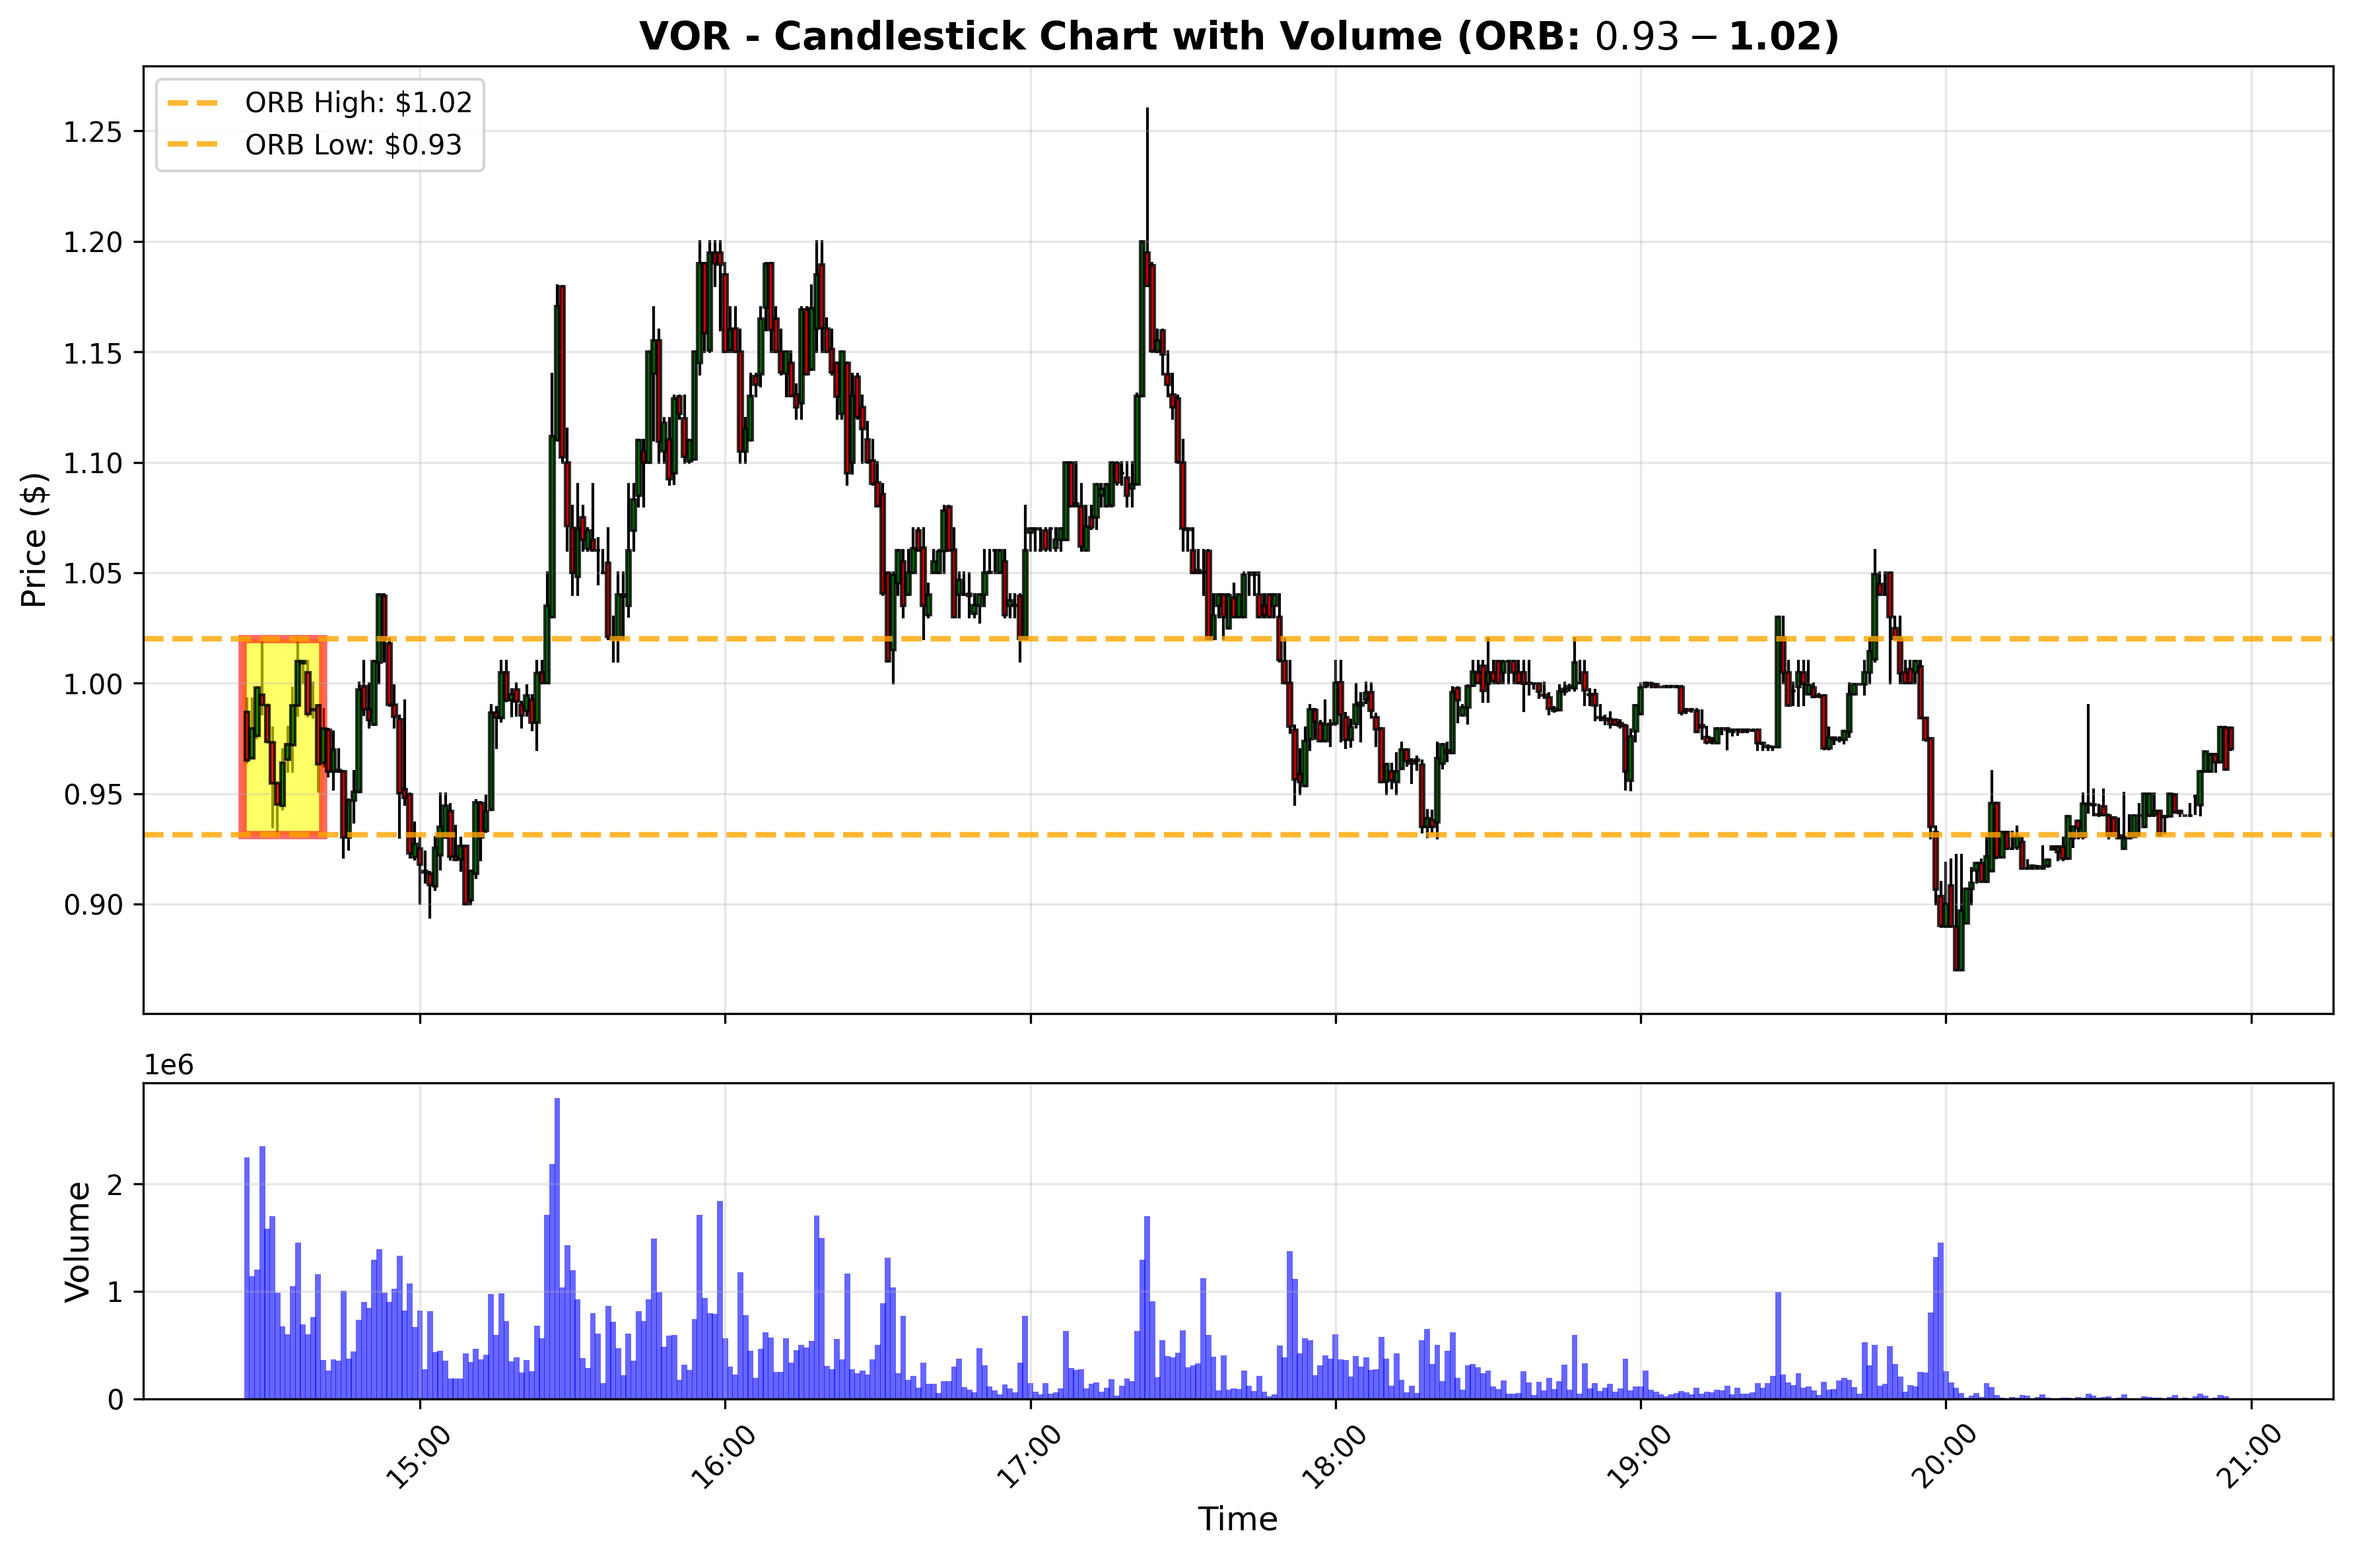
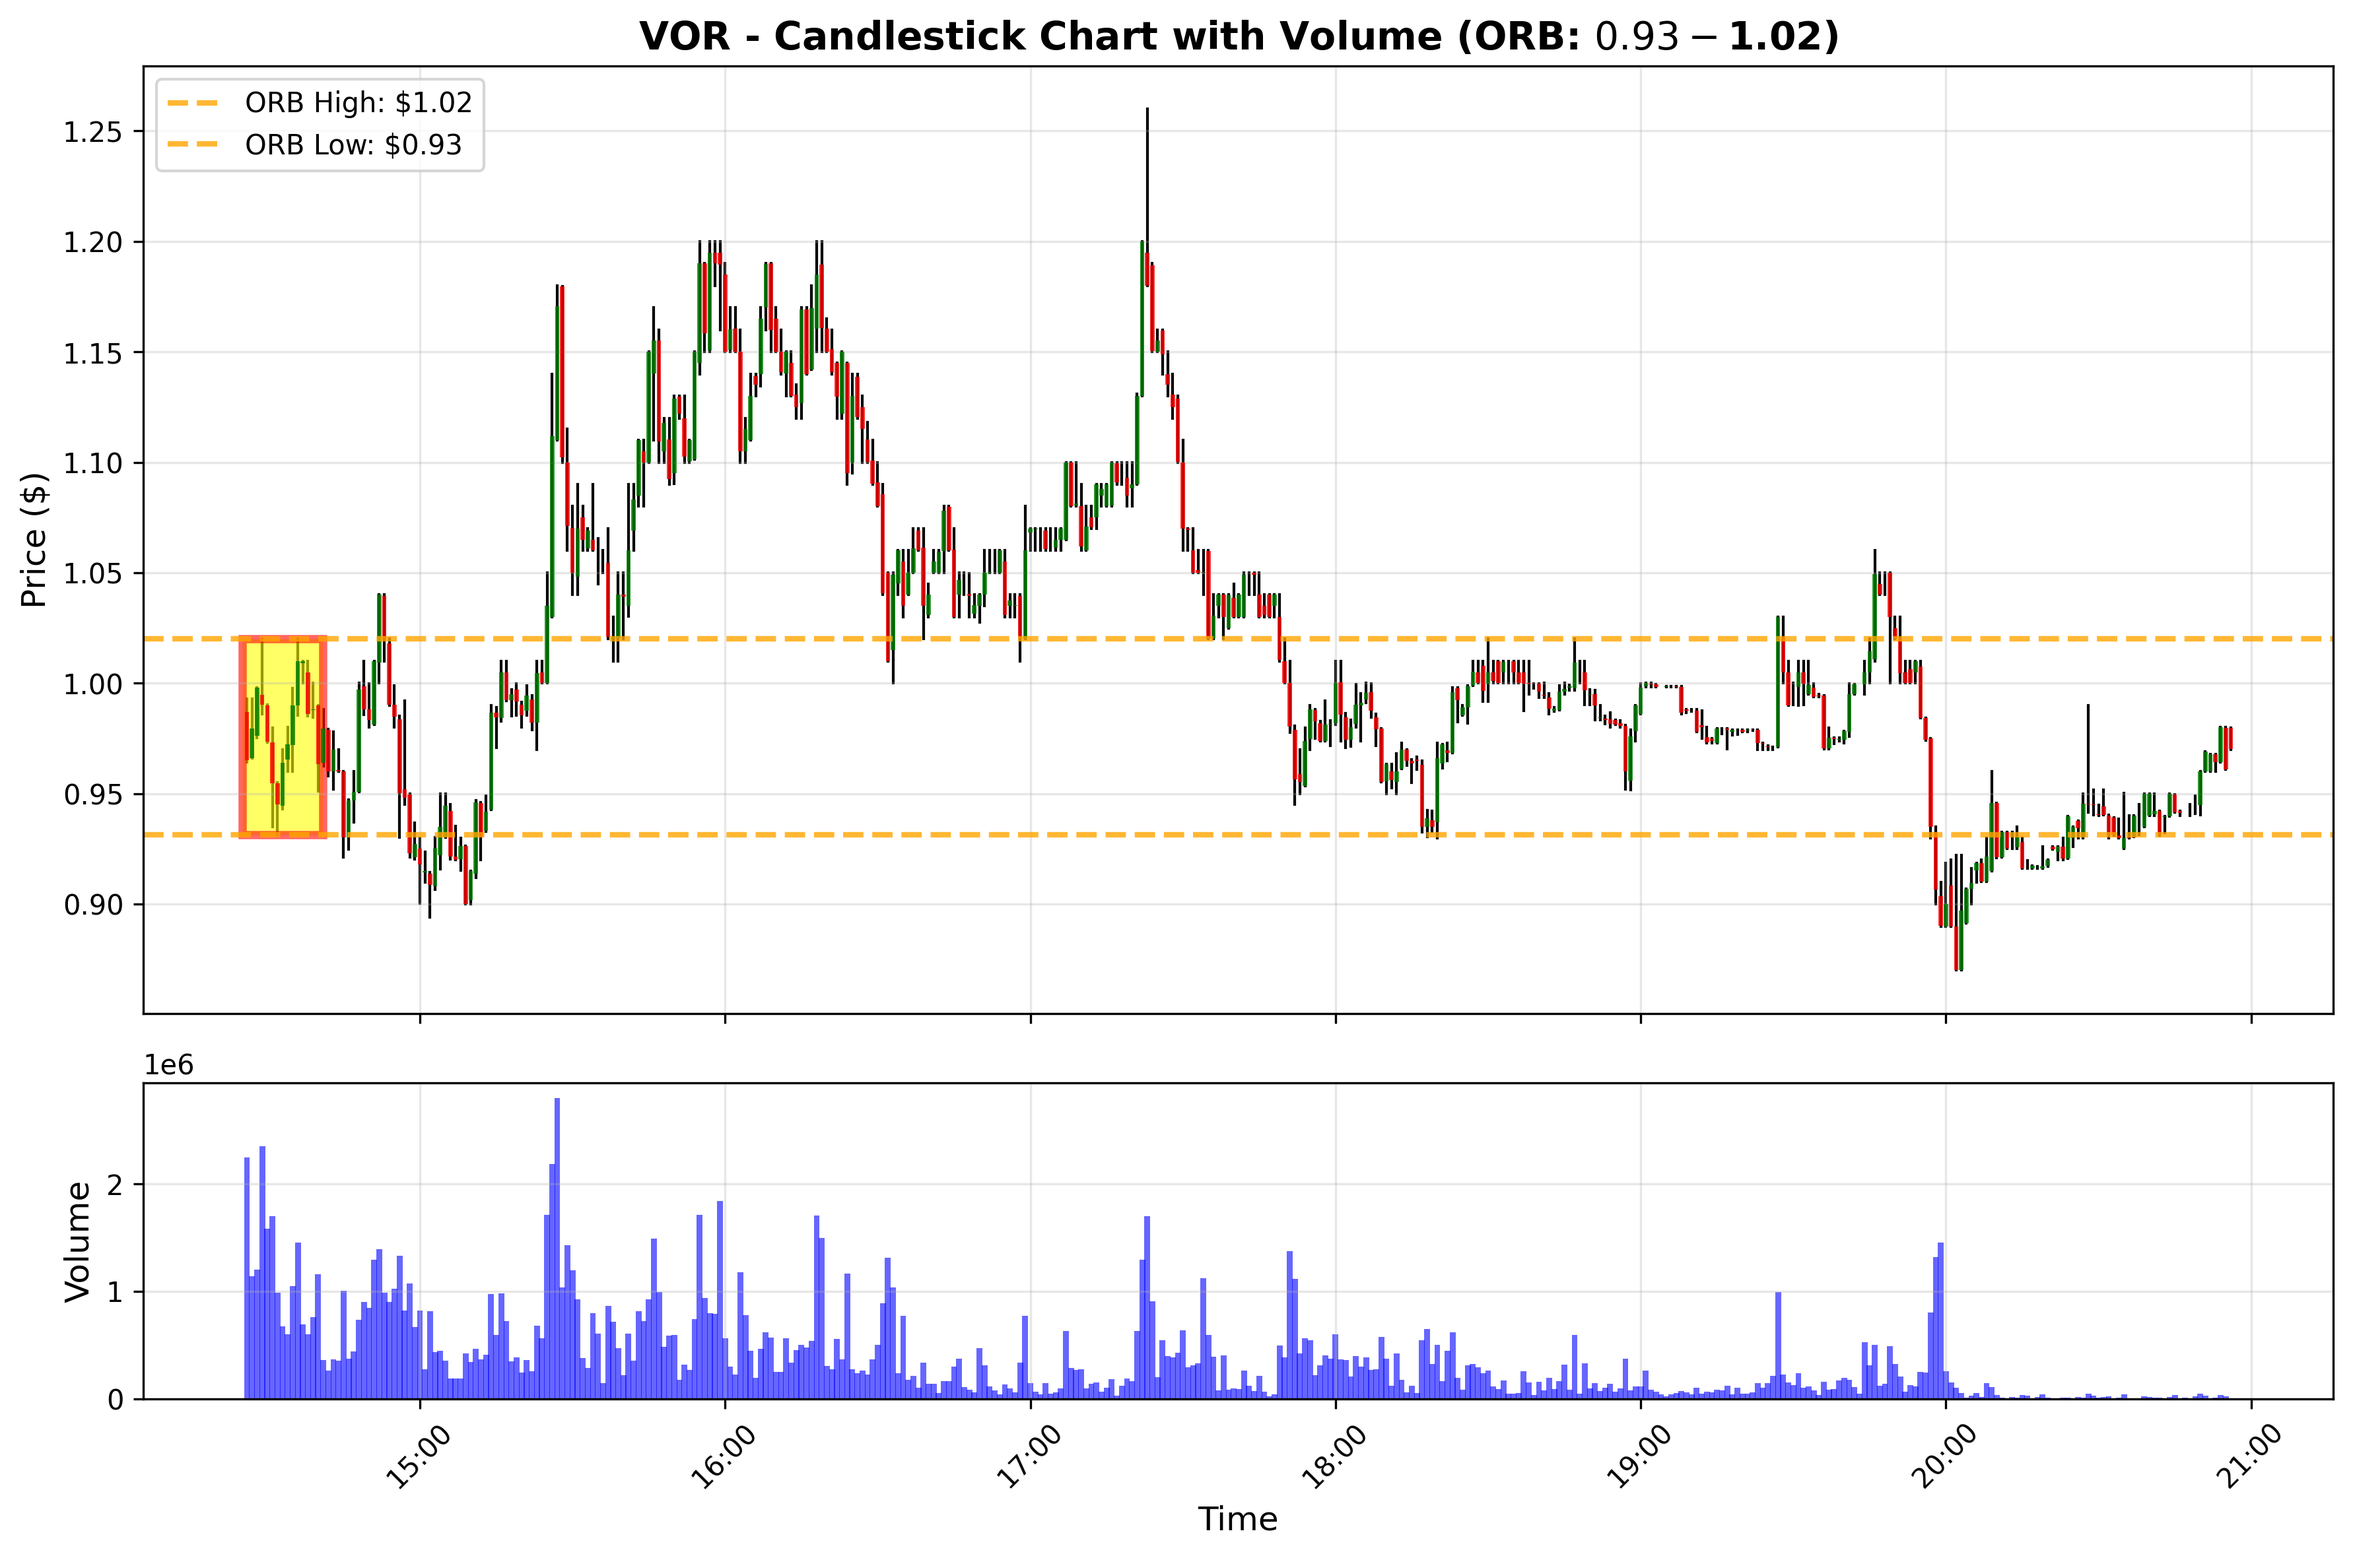
Candlesticks w/o borders.

diff --git a/atoms/display/plot_candle_chart.py b/atoms/display/plot_candle_chart.py
@@ -136,7 +136,7 @@ def plot_candle_chart(df: pd.DataFrame, symbol: str, output_dir: str = 'plots') 
             
             rect = Rectangle((mdates.date2num(timestamp) - 0.0003, bottom), 
                            0.0006, height, 
-                           facecolor=color, edgecolor='black', alpha=0.8,
+                           facecolor=color, edgecolor='none', alpha=0.8,
                            zorder=2)
             ax1.add_patch(rect)
         
